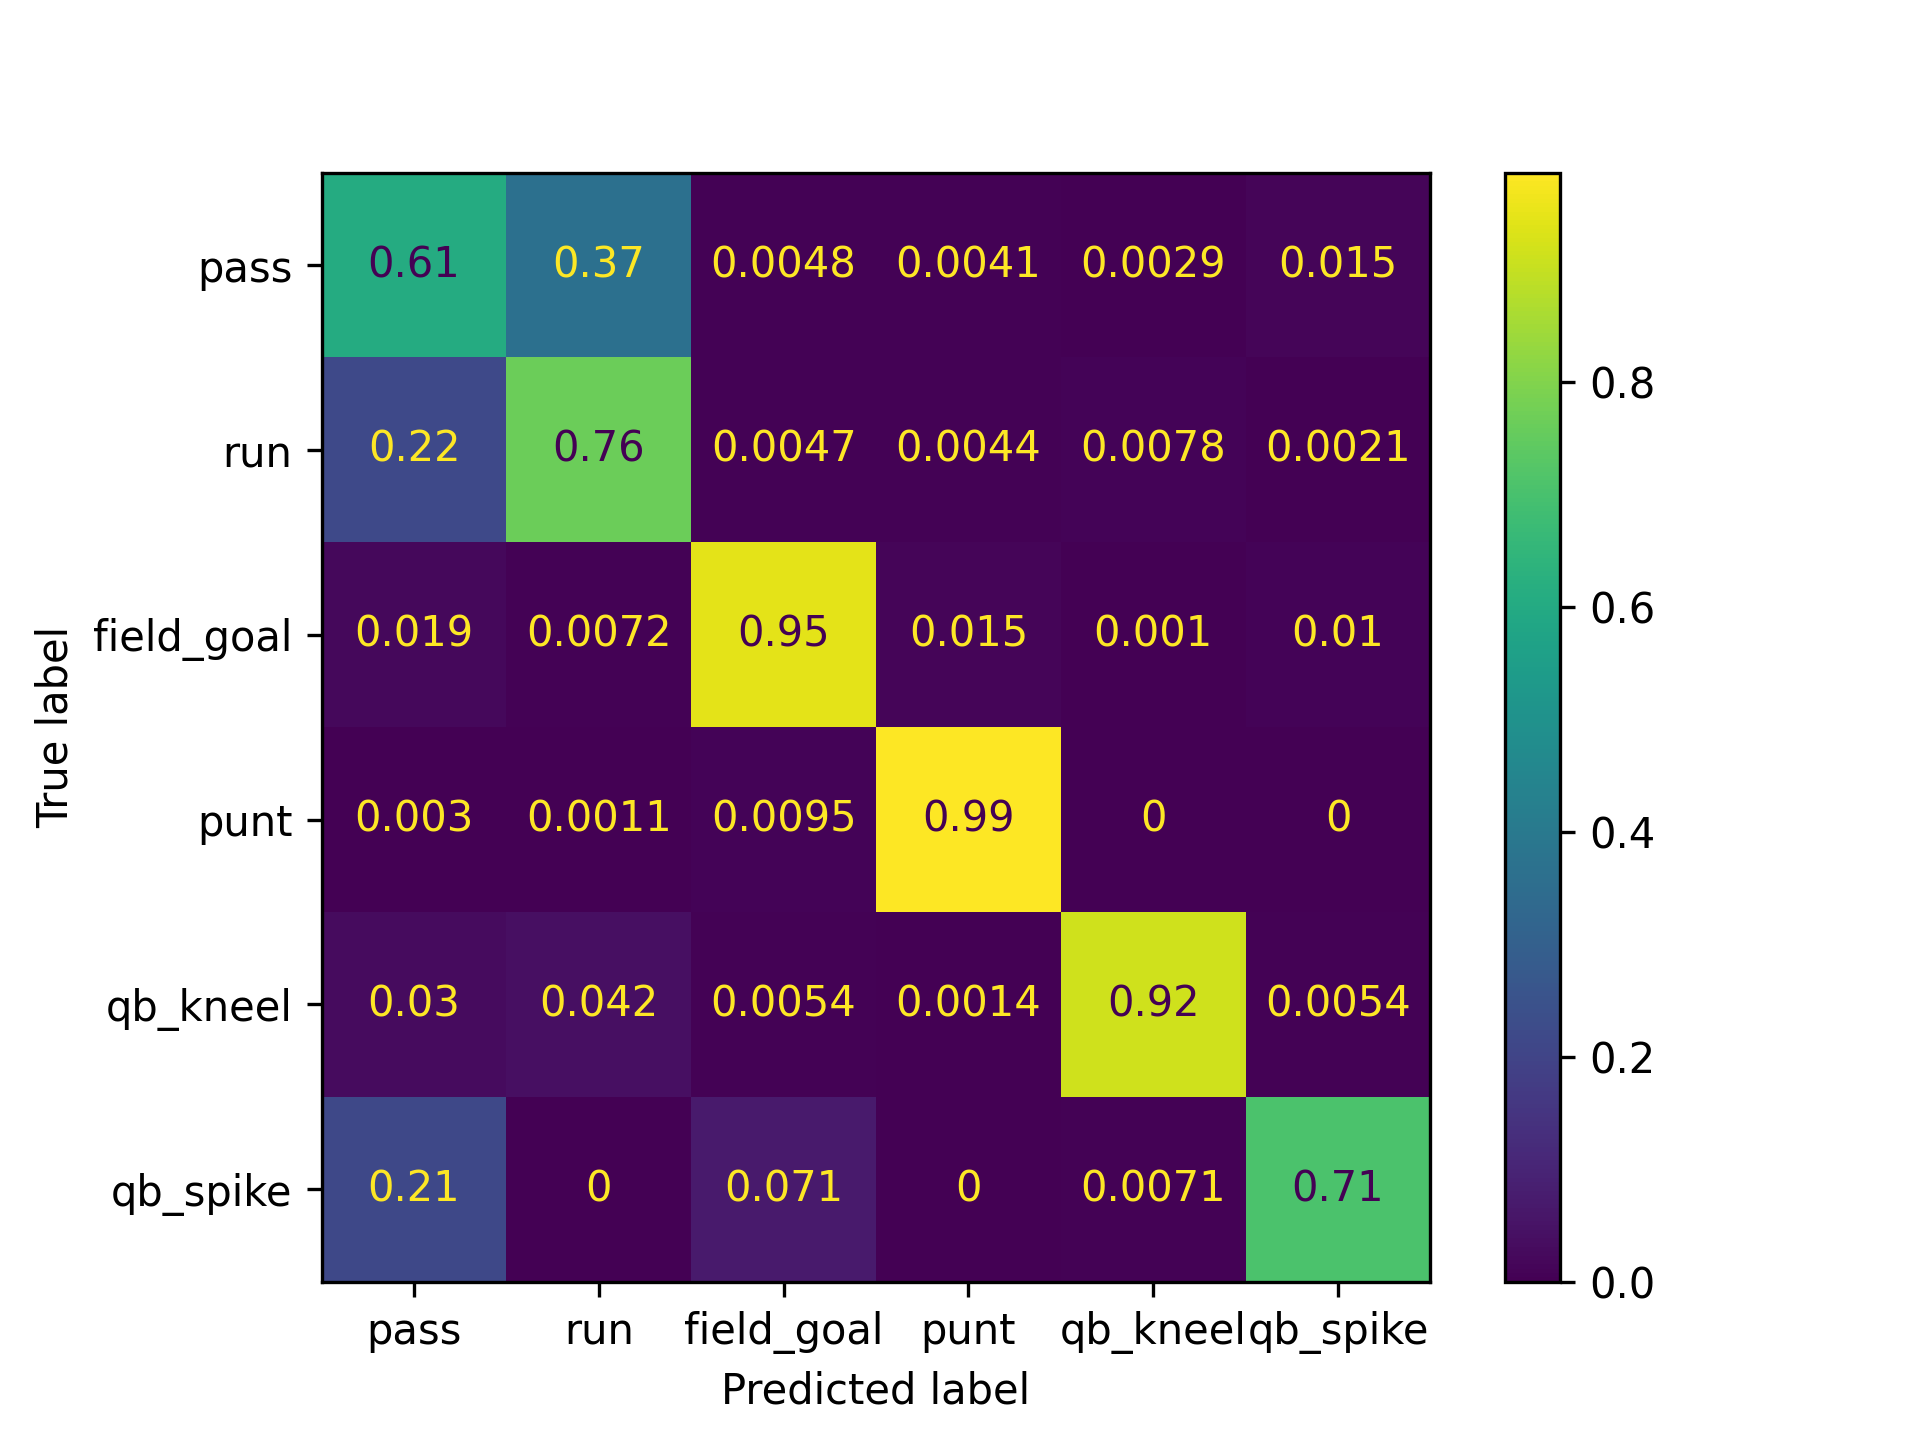
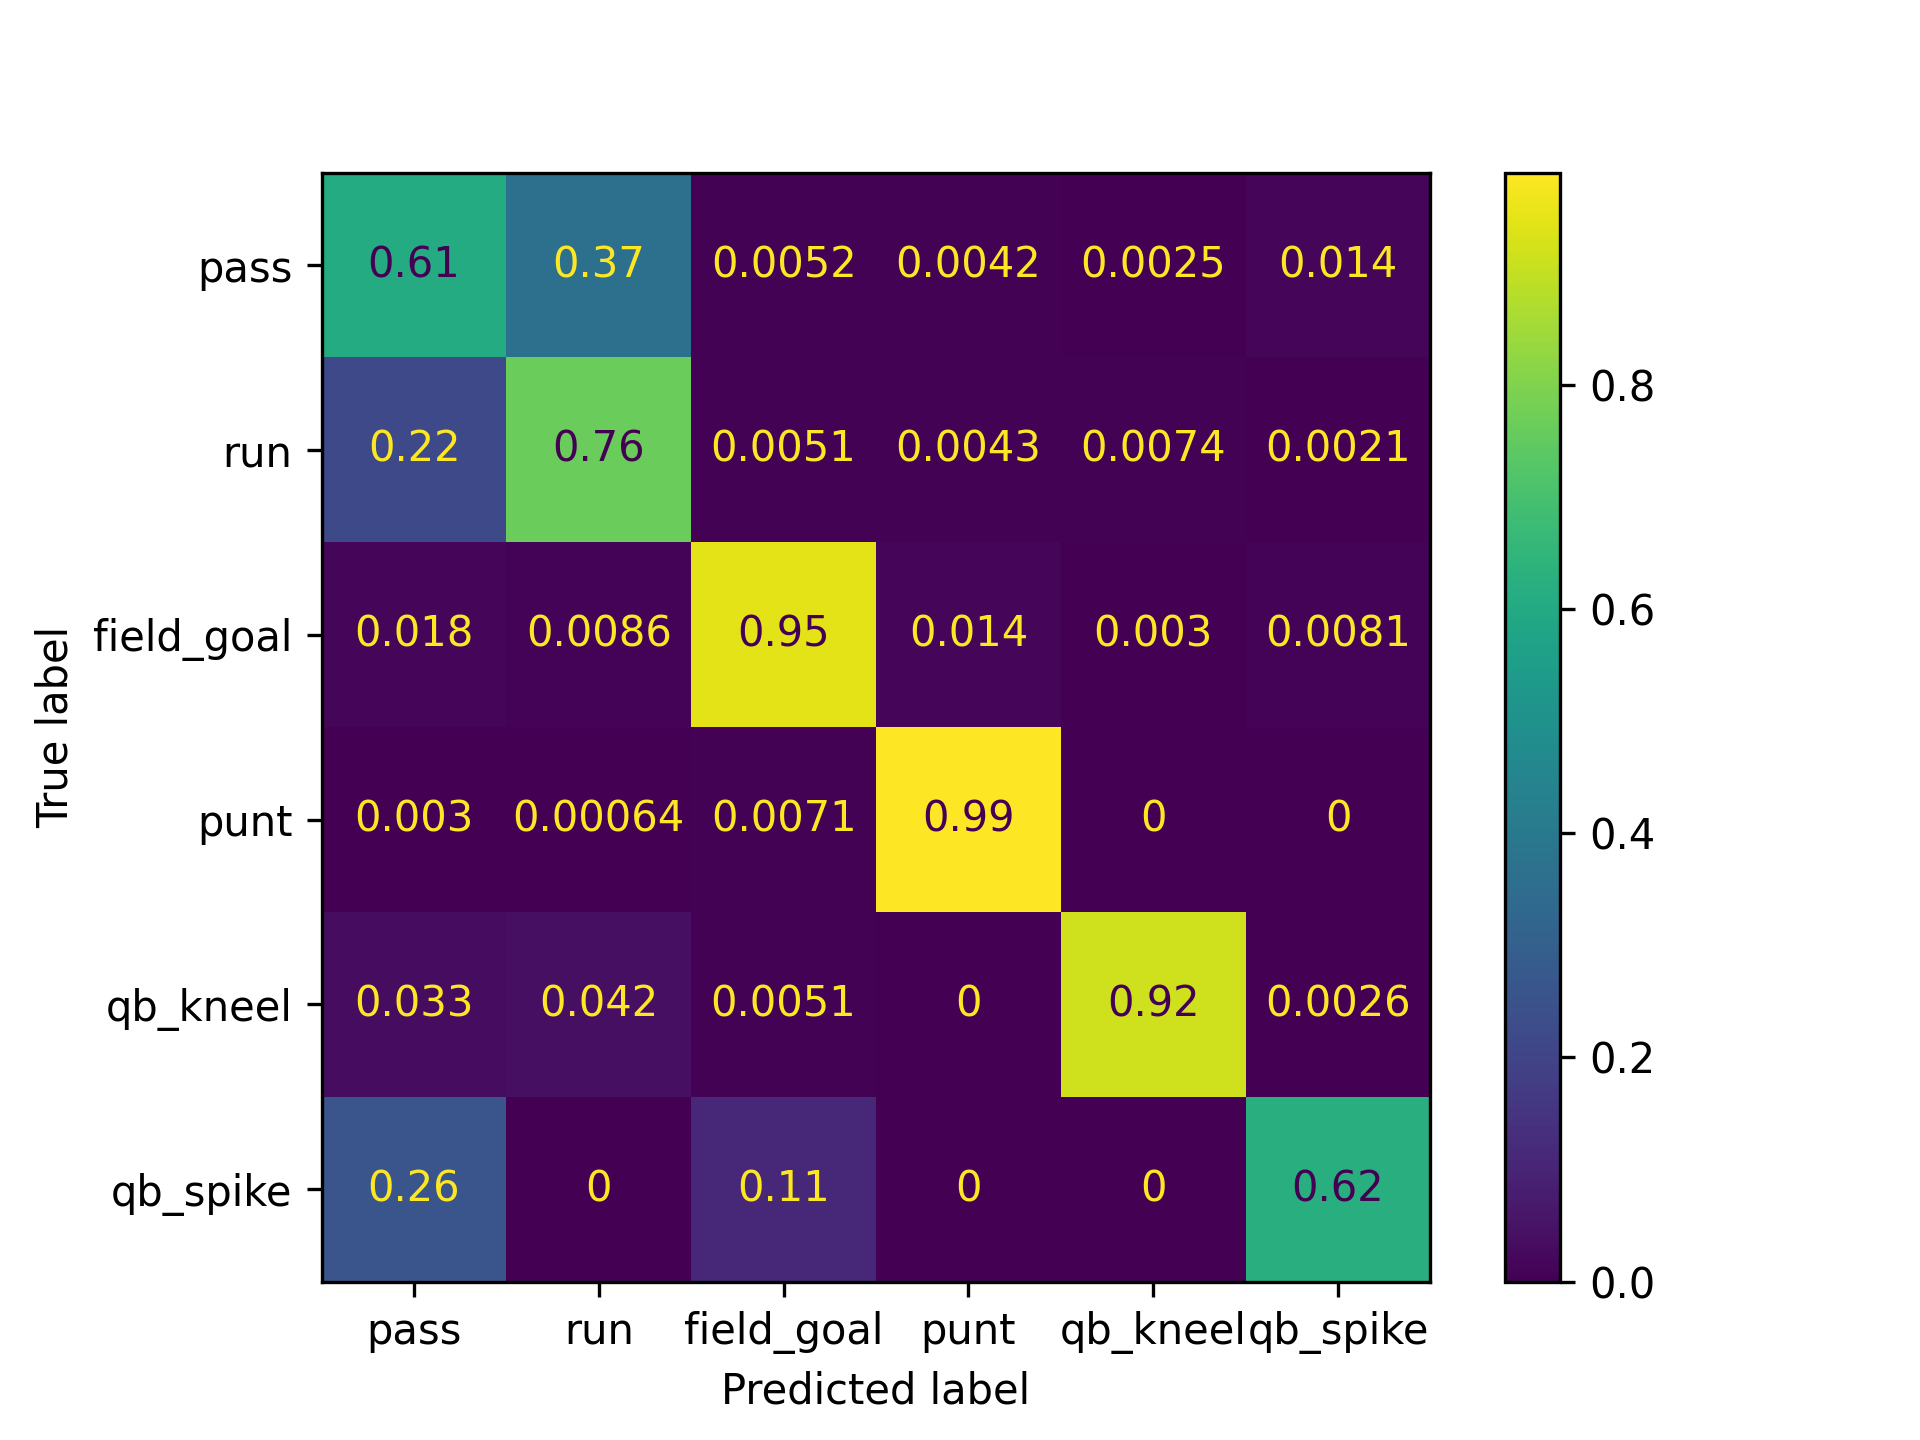
Added confusion matrix for knn

diff --git a/Play_prediction.py b/Play_prediction.py
@@ -146,19 +146,11 @@ if __name__ == "__main__":
     accuracy_rf = accuracy_score(Y_test, predictions_rf)
     print(f"Accuracy score of {model_type} = {np.round(accuracy_rf,4) * 100}% ")
 
-    model_type = "K-Nearest-Neighbours"
-    from sklearn.neighbors import KNeighborsClassifier
-    knn = KNeighborsClassifier(n_neighbors=2,algorithm="auto")
-
     
 
-    knn.fit(X_train, Y_train)
-    predictions_knn = knn.predict(X_test)
-    accuracy_knn = accuracy_score(Y_test, predictions_knn)
-    print(f"Accuracy score of {model_type} = {np.round(accuracy_knn,4) * 100}% ")
 
 
-    #Plotting graphs
+    #Plotting graphs Random Forest
     img_path_confusion_rf = 'Confusion_matrix_RF.png'
     plot_CM(Y_test, predictions_rf, img_path_confusion_rf)
 
@@ -175,12 +167,31 @@ if __name__ == "__main__":
     accuracy_xgb = accuracy_score(Y_test, predictions_xgb)
     print(f"Accuracy score of {model_type} = {np.round(accuracy_xgb,4) * 100}% ")
 
-    #Plotting graphs
+    #Plotting graphs - XGBoost
     img_path_confusion_xgb = 'Confusion_matrix_XGB.png'
     plot_CM(Y_test, predictions_xgb, img_path_confusion_xgb)
     
     img_path_feature_xgb = 'Feature_Importance_XGB.png'
     plot_feature_importance(model_xgb, features,img_path_feature_xgb)
+
+
+    model_type = "K-Nearest-Neighbours"
+    from sklearn.neighbors import KNeighborsClassifier
+    model_knn = KNeighborsClassifier(n_neighbors=2,algorithm="auto")
+
+    
+
+    model_knn.fit(X_train, Y_train)
+    predictions_knn = model_knn.predict(X_test)
+    accuracy_knn = accuracy_score(Y_test, predictions_knn)
+    print(f"Accuracy score of {model_type} = {np.round(accuracy_knn,4) * 100}% ")
+
+    #Plotting graphs - KNN
+    img_path_confusion_knn = 'Confusion_matrix_knn.png'
+    plot_CM(Y_test, predictions_knn, img_path_confusion_knn)
+    
+
+
 
 
 
